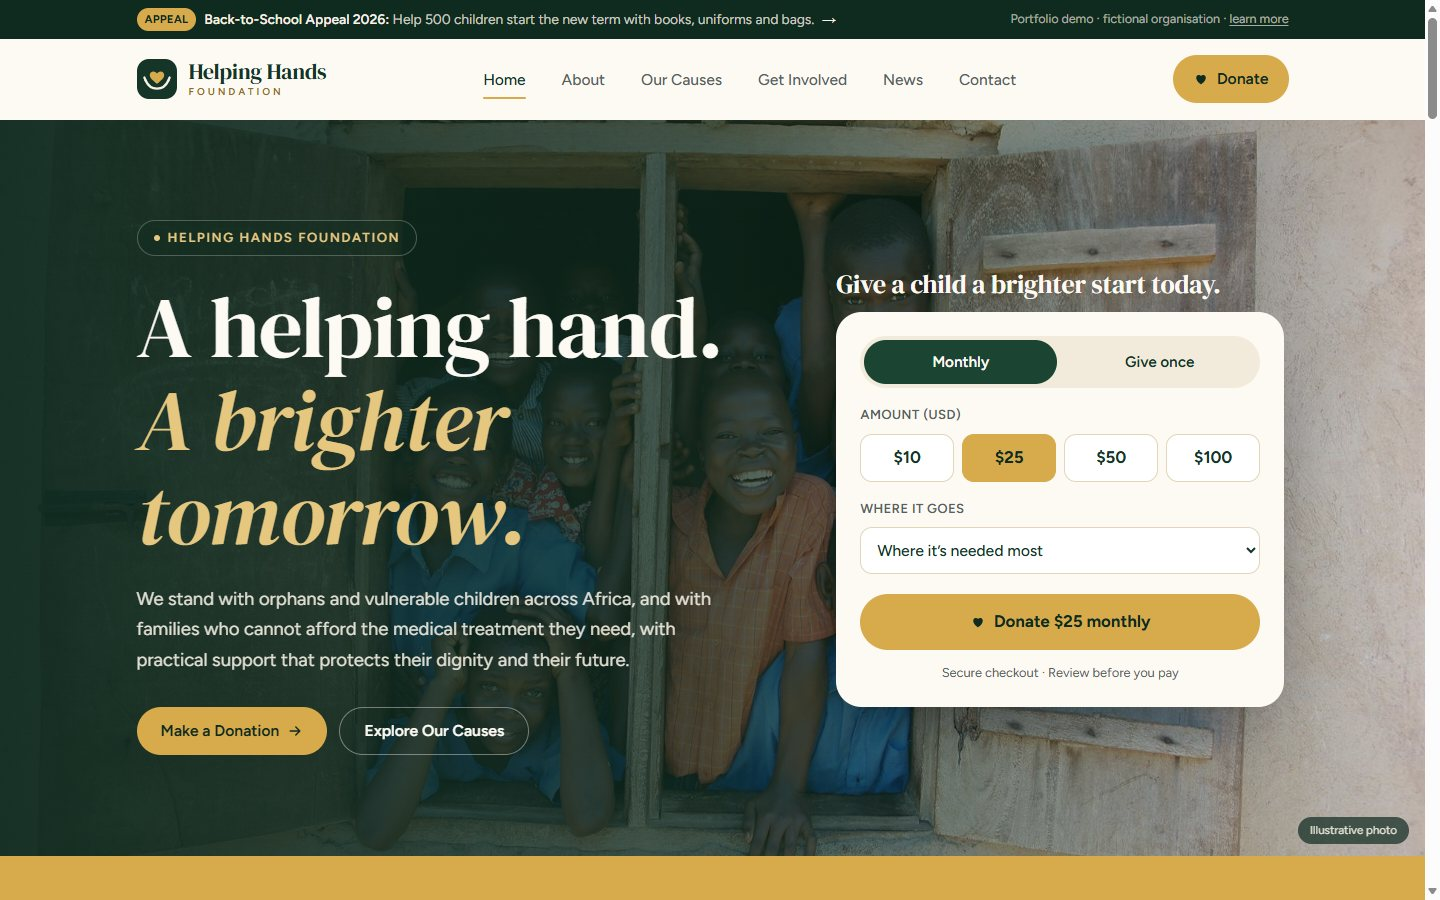
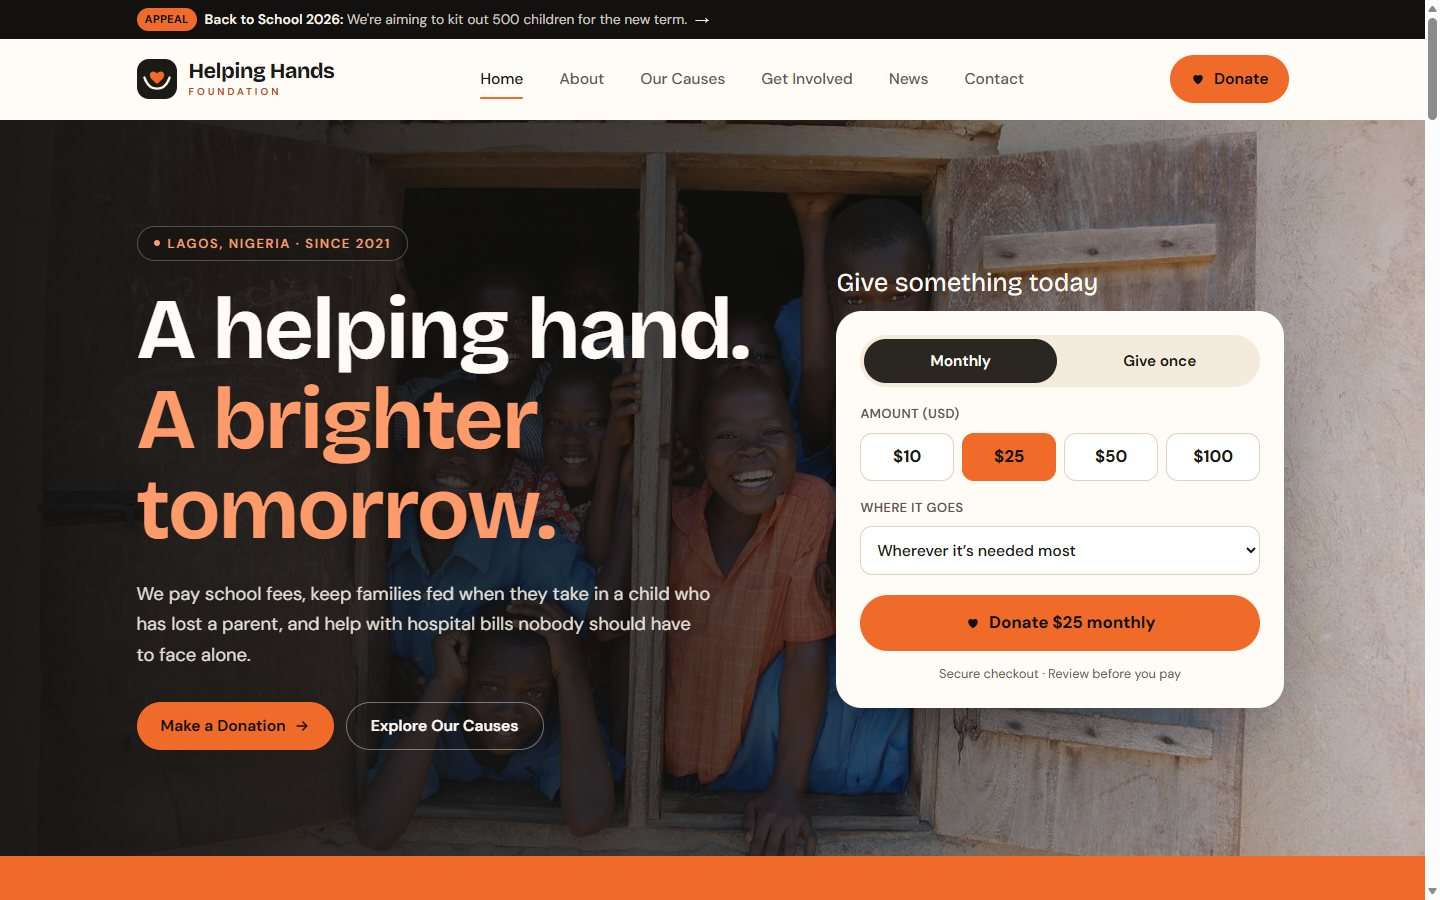
Helping Hands: refresh screenshot and case study wording

diff --git a/src/data/projects.js b/src/data/projects.js
@@ -99,20 +99,20 @@ export const projects = [
     number: '05',
     title: 'Helping Hands Foundation: NGO Website',
     category: 'Web Development',
-    type: 'Full-stack website (demo)',
+    type: 'Full-stack website',
     role: 'Web designer & developer',
     tools: ['Next.js', 'TypeScript', 'Tailwind CSS', 'Paystack', 'Cloudflare Workers'],
     tagline: 'A charity website with a USD donation flow, impact pages, transparency reports and working volunteer forms.',
     description:
-      'A complete NGO website for a fictional foundation supporting orphans, vulnerable children and families who need help with medical costs: donation journey, three cause pages with campaign progress, a gift-impact calculator, annual report, safeguarding and privacy policies, news, and volunteer and partnership forms.',
+      'A complete website for a Lagos foundation supporting orphans, vulnerable children and families who need help with medical costs: donation journey, three cause pages with campaign progress, a gift-impact calculator, annual report, safeguarding and privacy policies, news, and volunteer and partnership forms.',
     problem:
       'Charities need to earn trust before anyone gives. Donors want to see where money goes, give in a few clicks, and know their payment is safe, while the charity must protect the privacy and dignity of the people it supports.',
     process:
       'Before designing, I reviewed 23 NGO websites (charity: water, GiveDirectly, UNICEF, WaterAid, Plan International, World Vision, Slum2School and more) and combined their most effective patterns: a donation box in the hero, an impact-number band, campaign progress bars, a "what your gift can do" slider and a transparency chart. Policies draw on real donor-privacy policies, the Nigeria Data Protection Act and NGO safeguarding guidance.',
     solution:
-      'A Next.js site deployed on Cloudflare Workers. Donations in US dollars go through a server-side Paystack integration: the secret key never reaches the browser, payments are verified with Paystack before any "thank you", and webhooks are signature-checked and processed once. Without credentials it runs in a clearly labelled demo mode. Contact, volunteer and newsletter forms are validated in the browser and on the server, protected against spam, and confirm success only when the message is actually delivered.',
+      'A Next.js site deployed on Cloudflare Workers. Donations in US dollars go through a server-side Paystack integration: the secret key never reaches the browser, payments are verified with Paystack before any "thank you", and webhooks are signature-checked and processed once. Contact, volunteer and newsletter forms are validated in the browser and on the server, protected against spam, and confirm success only when the message is actually delivered.',
     outcome:
-      'A launch-ready template for a real charity: replace the sample team, figures and reports in one config file, add Paystack keys, and it takes real donations. Tested across 18 page types on phone, tablet and desktop.',
+      'All content lives in one config file, so the team can update figures, reports and staff without touching code, and adding Paystack keys switches on live card payments. Tested across 18 page types on phone, tablet and desktop.',
     workflow: ['Choose an amount', 'Pick a cause', 'Review the gift', 'Secure checkout', 'Server verifies payment', 'Thank-you page'],
     image: 'work/helping-hands.jpg',
     liveUrl: 'https://helping-hands-foundation.peaceomachunyiejiga.workers.dev',
